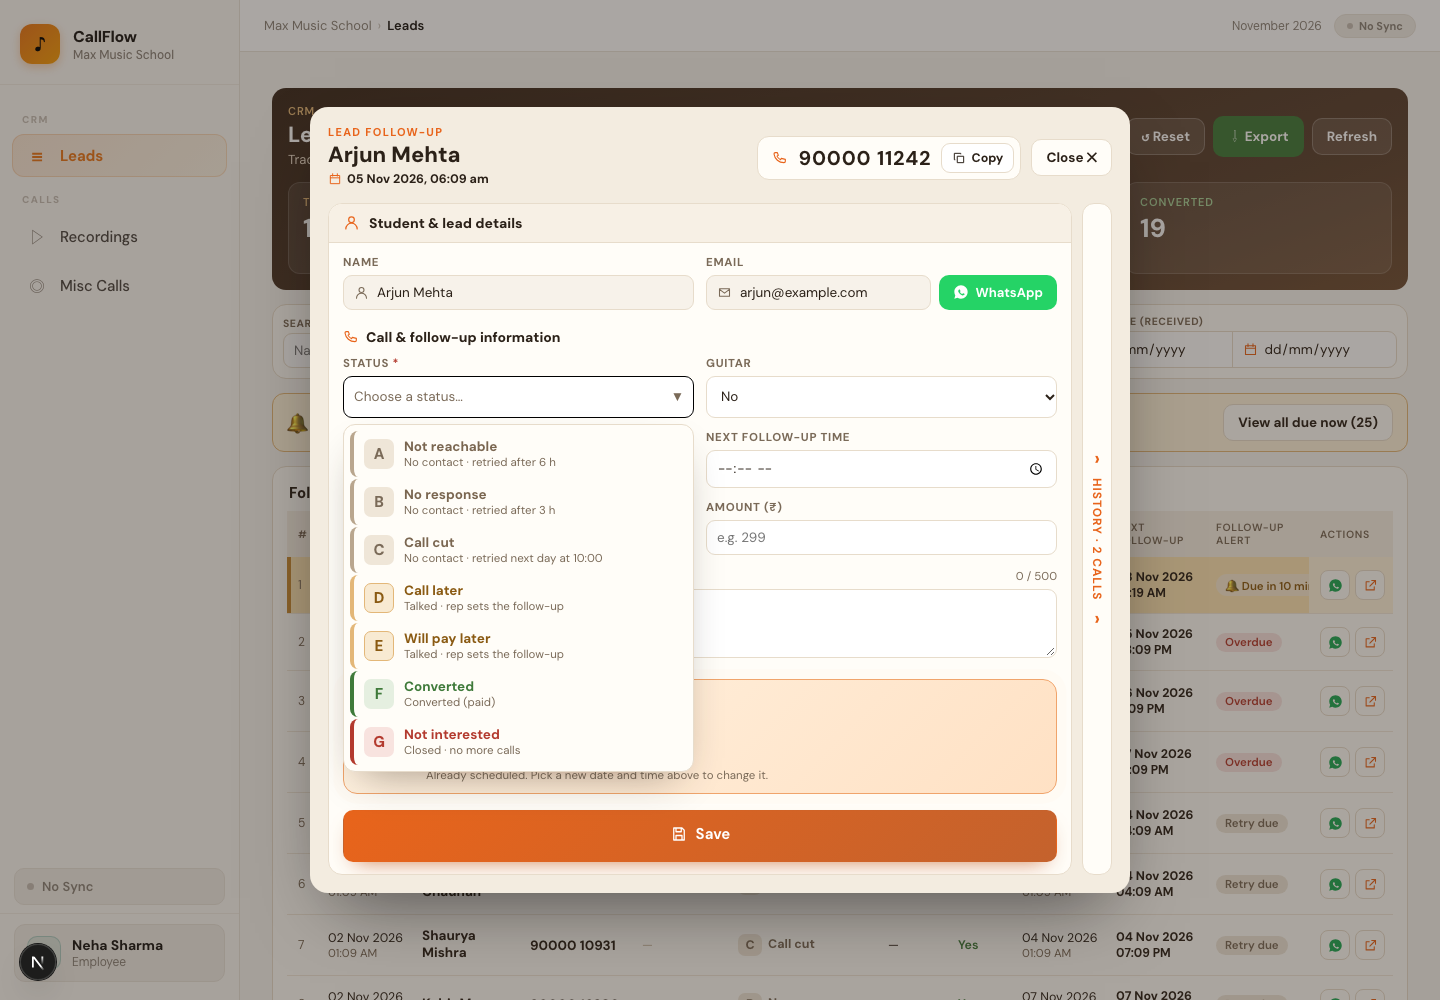
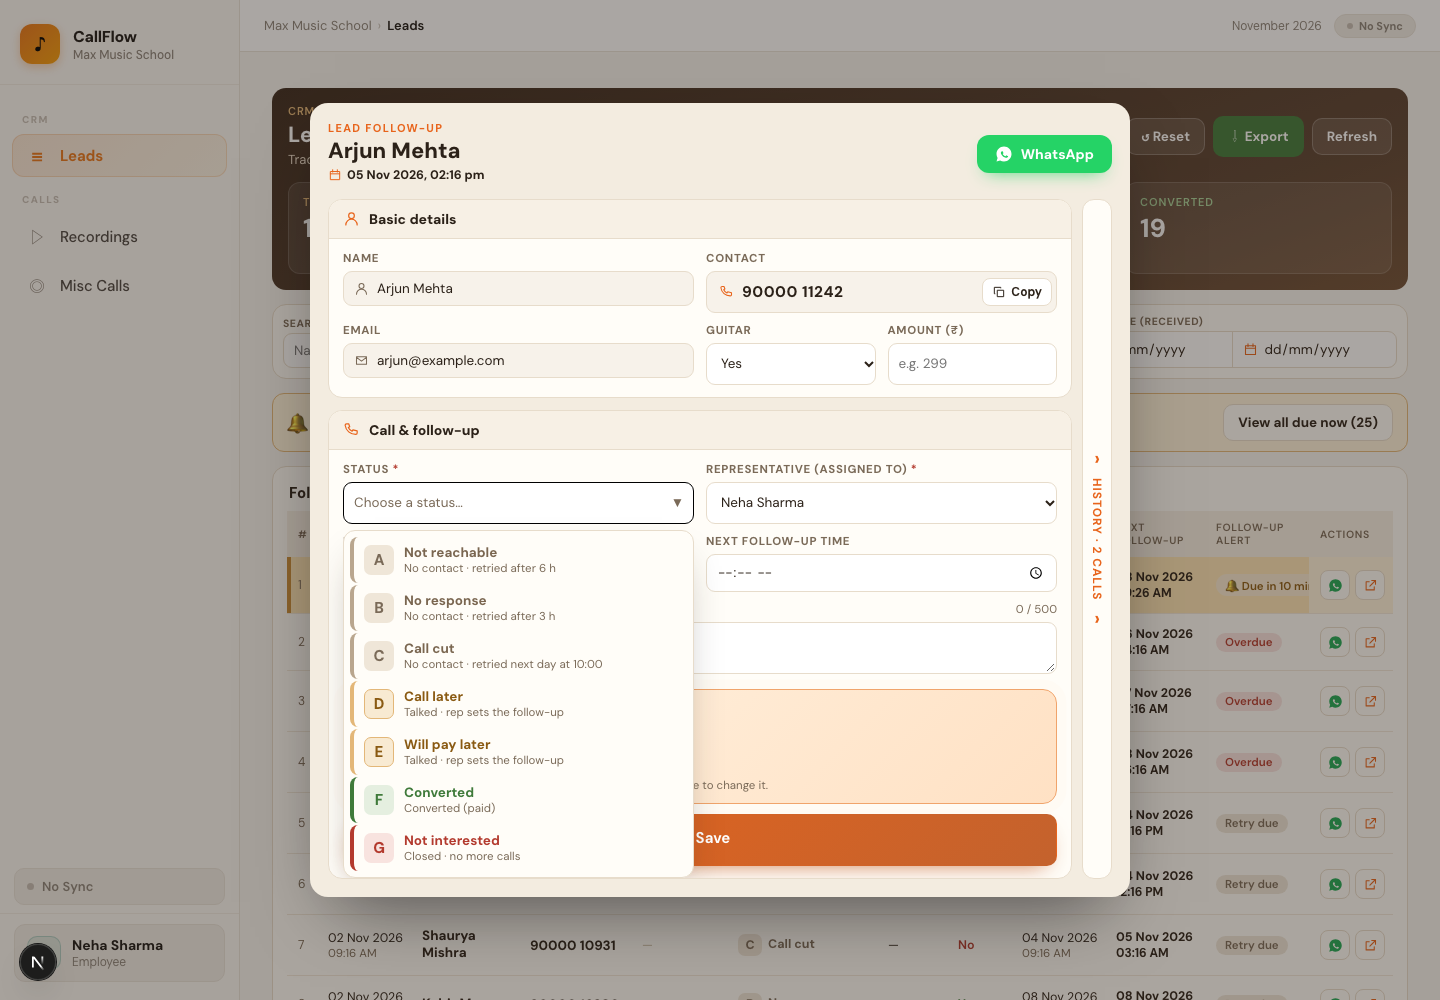
CRM lead form: client layout (Basic details / Call & follow-up, WhatsApp top right, no Close)
- Basic details: Name, Contact (with Copy), Email, Guitar, Amount.
- Call & follow-up: Status, Representative, next follow-up date/time, notes, reminder, Save.
- The number box leaves the top corner; WhatsApp takes the top right.
- No Close button: a click on the empty area around the pop-up, or Esc, closes it.
- Tighter spacing so the whole form fits on one screen.

diff --git a/apps/web/components/crm/LeadDrawer.tsx b/apps/web/components/crm/LeadDrawer.tsx
@@ -113,10 +113,12 @@ function DrawerBody({ leadId, onClose, onSaved, isOwner, expanded, onExpand }: {
             <Icon name="calendar" size={14} style={{ color: R.out }} /><b style={{ color: R.ink }} title="Lead received">{received(d.lead.created_at)}</b>
           </div>
         </div>
-        <span style={{ marginLeft: "auto", display: "flex", gap: 10, alignItems: "center" }}>
-          <NumberBox phone10={d.lead.phone10} />
-          <Btn kind="ghost" onClick={onClose}>Close ✕</Btn>
-        </span>
+        {/* Client, 8 Nov: WhatsApp top right; the number lives in Basic details; no Close button
+            (a click on the empty area around the pop-up, or Esc, closes it) */}
+        <a href={`https://wa.me/91${d.lead.phone10}`} target="_blank" rel="noopener noreferrer" className="crm-btn" title="Chat on WhatsApp"
+          style={{ marginLeft: "auto", display: "inline-flex", gap: 8, alignItems: "center", background: "#25D366", color: "#fff", borderRadius: 12,
+            padding: "10px 18px", fontWeight: 800, fontSize: 14, textDecoration: "none", boxShadow: "0 8px 18px -10px rgba(37,211,102,.9)" }}>
+          <WhatsAppIcon size={18} />WhatsApp</a>
       </header>
       {readOnly && (
         <div role="status" style={{ display: "flex", gap: 10, alignItems: "center", background: "#fff1d6", border: `1px solid ${R.gold}`, borderRadius: 12, padding: "10px 14px", fontSize: 13.5, fontWeight: 600 }}>
@@ -147,31 +149,22 @@ function DrawerBody({ leadId, onClose, onSaved, isOwner, expanded, onExpand }: {
   );
 }
 
-/** The number in big type for dialling on KoreCall, with a copy button. */
-function NumberBox({ phone10 }: { phone10: string }) {
+/** Contact field: the number in bold for dialling on KoreCall, with a copy button. */
+function ContactField({ phone10 }: { phone10: string }) {
   const [copied, setCopied] = useState(false);
   const copy = async () => {
     try { await navigator.clipboard.writeText(phone10); setCopied(true); setTimeout(() => setCopied(false), 1500); } catch { /* clipboard blocked */ }
   };
   return (
-    <div style={{ display: "flex", gap: 10, alignItems: "center", background: R.card, border: `1px solid ${R.line}`, borderRadius: 12, padding: "6px 6px 6px 14px" }}>
-      <Icon name="phone" size={16} style={{ color: R.out }} />
-      <b style={{ fontSize: 20, letterSpacing: ".04em", fontVariantNumeric: "tabular-nums" }} aria-label={`Phone ${phone10.split("").join(" ")}`}>{groupPhone(phone10)}</b>
+    <div style={{ ...inputStyle, background: "#f7f2ea", display: "flex", gap: 8, alignItems: "center", padding: "4px 4px 4px 12px", minHeight: 42 }}>
+      <Icon name="phone" size={15} style={{ color: R.out }} />
+      <b style={{ fontSize: 15.5, letterSpacing: ".03em", fontVariantNumeric: "tabular-nums", flex: 1 }} aria-label={`Phone ${phone10.split("").join(" ")}`}>{groupPhone(phone10)}</b>
       <button type="button" className="crm-btn" onClick={copy} title="Copy number" aria-label="Copy number"
         style={{ display: "inline-flex", gap: 5, alignItems: "center", border: `1px solid ${copied ? R.good : R.line}`, background: copied ? "#e5efe0" : "#fff",
-          color: copied ? R.good : R.ink, borderRadius: 9, padding: "6px 10px", fontSize: 12.5, fontWeight: 700, cursor: "pointer", fontFamily: "inherit" }}>
+          color: copied ? R.good : R.ink, borderRadius: 8, padding: "5px 9px", fontSize: 12, fontWeight: 700, cursor: "pointer", fontFamily: "inherit" }}>
         <Icon name={copied ? "check" : "copy"} size={14} />{copied ? "Copied" : "Copy"}
       </button>
       <span role="status" style={{ position: "absolute", width: 1, height: 1, overflow: "hidden", clip: "rect(0 0 0 0)" }}>{copied ? "Number copied" : ""}</span>
-    </div>
-  );
-}
-
-function SectionLabel({ icon, children }: { icon: Parameters<typeof Icon>[0]["name"]; children: ReactNode }) {
-  return (
-    <div style={{ display: "flex", alignItems: "center", gap: 7, margin: "2px 0 10px" }}>
-      <Icon name={icon} size={16} style={{ color: R.out }} />
-      <span style={{ fontSize: 14, fontWeight: 800, color: R.ink }}>{children}</span>
     </div>
   );
 }
@@ -351,62 +344,58 @@ function LeadForm({ d, cfg, readOnly, onSaved, onReload }: { d: LeadDetail; cfg:
   const lbl = (text: string, required: boolean) => <span style={labelStyle}>{text}{star(required)}</span>;
   const box = { ...inputStyle, background: "#f7f2ea", display: "flex", gap: 8, alignItems: "center" } as const;
   return (
-    <Card icon="user" title="Student & lead details">
-      <fieldset disabled={readOnly} style={{ border: 0, margin: 0, padding: 0, display: "grid", gap: 16, minWidth: 0 }}>
-        <div className="lf-2" style={{ alignItems: "end" }}>
-          <div>{lbl("Name", false)}<div style={box}><Icon name="user" size={15} style={{ color: R.mute }} />{l.name || "—"}</div></div>
-          <div>
-            {lbl("Email", false)}
-            {/* From the lead sheet's email column; the number is already in the box at the top */}
-            <div style={{ display: "flex", gap: 8 }}>
-              <div style={{ ...box, flex: 1, minWidth: 0 }} title={l.email ?? undefined}>
+    <fieldset disabled={readOnly} style={{ border: 0, margin: 0, padding: 0, display: "grid", gap: 12, minWidth: 0 }}>
+      {/* Client, 8 Nov: segments, everything important in one area of the screen */}
+      <Card icon="user" title="Basic details">
+        <div style={{ display: "grid", gap: 10 }}>
+          <div className="lf-2">
+            <div>{lbl("Name", false)}<div style={box}><Icon name="user" size={15} style={{ color: R.mute }} />{l.name || "—"}</div></div>
+            <div>{lbl("Contact", false)}<ContactField phone10={l.phone10} /></div>
+          </div>
+          <div className="lf-2">
+            <div>{lbl("Email", false)}
+              <div style={box} title={l.email ?? undefined}>
                 <Icon name="mail" size={15} style={{ color: R.mute }} />
                 {l.email ? <span style={{ overflow: "hidden", textOverflow: "ellipsis", whiteSpace: "nowrap" }}>{l.email}</span>
                   : <span style={{ color: "#a8977f" }}>Not in the sheet</span>}
               </div>
-              <a href={`https://wa.me/91${l.phone10}`} target="_blank" rel="noopener noreferrer" className="crm-btn" title="Chat on WhatsApp"
-                style={{ display: "inline-flex", gap: 6, alignItems: "center", background: "#25D366", color: "#fff", borderRadius: 10, padding: "0 14px", fontWeight: 700, fontSize: 13, textDecoration: "none" }}>
-                <WhatsAppIcon size={16} />WhatsApp</a>
             </div>
-          </div>
-        </div>
-
-        <div>
-          <SectionLabel icon="phone">Call & follow-up information</SectionLabel>
-          <div style={{ display: "grid", gap: 12 }}>
             <div className="lf-2">
-              <div>{lbl("Status", true)}<StatusPicker value={code} onChange={pickStatus} /></div>
               <label>{lbl("Guitar", talked)}
                 <select value={guitar} onChange={(e) => setGuitar(e.target.value)} style={{ ...inputStyle, minHeight: 42 }} aria-label="Guitar">
                   <option value="">—</option><option>Yes</option><option>No</option>
                 </select></label>
-            </div>
-            <div className="lf-2">
-              <label>{lbl("Next follow-up date", kind === "callback")}
-                <input type="date" value={date} min={istToday()} disabled={dateOff} onChange={(e) => setDate(e.target.value)} aria-label="Next follow-up date"
-                  style={{ ...inputStyle, opacity: dateOff ? 0.5 : 1 }} /></label>
-              <label>{lbl("Next follow-up time", kind === "callback")}
-                <input type="time" value={time} disabled={dateOff} onChange={(e) => setTime(e.target.value)} aria-label="Next follow-up time"
-                  style={{ ...inputStyle, opacity: dateOff ? 0.5 : 1 }} /></label>
-            </div>
-            {kind === "retry" && !drops && <div style={{ fontSize: 12, color: R.mute, marginTop: -6 }}>Filled automatically from the follow-up rules in CRM Settings. Change it if needed.</div>}
-            <div className="lf-2">
-              <label>{lbl("Representative (assigned to)", true)}
-                <select value={repId} onChange={(e) => setRepId(e.target.value)} style={inputStyle} aria-label="Representative">
-                  <option value="">Choose…</option>
-                  {cfg.reps.map((r) => <option key={r.id} value={r.id}>{r.name}</option>)}
-                </select></label>
               <label>{lbl("Amount (₹)", false)}
-                <input type="number" min={0} placeholder="e.g. 299" value={amount} onChange={(e) => setAmount(e.target.value)} style={inputStyle} /></label>
+                <input type="number" min={0} placeholder="e.g. 299" value={amount} onChange={(e) => setAmount(e.target.value)} style={{ ...inputStyle, minHeight: 42 }} /></label>
             </div>
-            <label>
-              <span style={{ ...labelStyle, display: "flex" }}>Notes / conversation summary{star(needsNote)}
-                <span style={{ marginLeft: "auto", textTransform: "none", letterSpacing: 0, fontWeight: 400 }}>{note.length} / {NOTE_MAX}</span></span>
-              <textarea value={note} maxLength={NOTE_MAX} onChange={(e) => setNote(e.target.value)} rows={3} placeholder="What did the student say?" style={{ ...inputStyle, resize: "vertical" }} />
-            </label>
           </div>
         </div>
+      </Card>
 
+      <Card icon="phone" title="Call & follow-up">
+        <div style={{ display: "grid", gap: 10 }}>
+          <div className="lf-2">
+            <div>{lbl("Status", true)}<StatusPicker value={code} onChange={pickStatus} /></div>
+            <label>{lbl("Representative (assigned to)", true)}
+              <select value={repId} onChange={(e) => setRepId(e.target.value)} style={{ ...inputStyle, minHeight: 42 }} aria-label="Representative">
+                <option value="">Choose…</option>
+                {cfg.reps.map((r) => <option key={r.id} value={r.id}>{r.name}</option>)}
+              </select></label>
+          </div>
+          <div className="lf-2">
+            <label>{lbl("Next follow-up date", kind === "callback")}
+              <input type="date" value={date} min={istToday()} disabled={dateOff} onChange={(e) => setDate(e.target.value)} aria-label="Next follow-up date"
+                style={{ ...inputStyle, opacity: dateOff ? 0.5 : 1 }} /></label>
+            <label>{lbl("Next follow-up time", kind === "callback")}
+              <input type="time" value={time} disabled={dateOff} onChange={(e) => setTime(e.target.value)} aria-label="Next follow-up time"
+                style={{ ...inputStyle, opacity: dateOff ? 0.5 : 1 }} /></label>
+          </div>
+          {kind === "retry" && !drops && <div style={{ fontSize: 12, color: R.mute, marginTop: -4 }}>Filled automatically from the follow-up rules in CRM Settings. Change it if needed.</div>}
+          <label>
+            <span style={{ ...labelStyle, display: "flex" }}>Notes / conversation summary{star(needsNote)}
+              <span style={{ marginLeft: "auto", textTransform: "none", letterSpacing: 0, fontWeight: 400 }}>{note.length} / {NOTE_MAX}</span></span>
+            <textarea value={note} maxLength={NOTE_MAX} onChange={(e) => setNote(e.target.value)} rows={2} placeholder="What did the student say?" style={{ ...inputStyle, resize: "vertical" }} />
+          </label>
         <Reminder at={reminder.at} repName={repName} note={reminder.note} live={reminder.live} />
         {err && (
           <div role="alert" style={{ color: R.bad, fontSize: 13, fontWeight: 600, display: "flex", gap: 10, alignItems: "center" }}>
@@ -417,7 +406,8 @@ function LeadForm({ d, cfg, readOnly, onSaved, onReload }: { d: LeadDetail; cfg:
           style={{ padding: "13px 22px", fontSize: 15, background: `linear-gradient(135deg,${R.out},#c4622d)`, boxShadow: "0 10px 22px -12px rgba(196,98,45,.9)", width: "100%" }}>
           <span style={{ display: "inline-flex", gap: 8, alignItems: "center" }}><Icon name="save" size={18} />{saving ? "Saving…" : "Save"}</span>
         </Btn>
-      </fieldset>
-    </Card>
+        </div>
+      </Card>
+    </fieldset>
   );
 }

diff --git a/docs/crm-prototype/README.md b/docs/crm-prototype/README.md
@@ -5,9 +5,10 @@ request (7 Nov 2026, "keep it simple") to two pages:
 
 - **Leads**: four tiles (total, new, follow-ups due today, converted), filters, a "due now" banner,
   and three lists: *Follow-up due now* (blinks 15 min before a callback), *Upcoming today*, *All leads*.
-- **Lead form** (pop-up): number with Copy, name, email from the sheet, WhatsApp link, Status (the client's
-  codes in a coloured dropdown), Guitar, next follow-up date/time, representative, amount, notes,
-  a reminder banner, Save. A side handle opens the follow-up snapshot and the call log with recordings.
+- **Lead form** (pop-up, client layout of 8 Nov): WhatsApp button top right; **Basic details**
+  (Name, Contact with Copy, Email, Guitar, Amount); **Call & follow-up** (Status in a coloured dropdown,
+  Representative, next follow-up date/time, notes, reminder banner, Save). No Close button: a click on the
+  empty area around it, or Esc, closes it. A side handle opens the follow-up snapshot and the call log.
 - **CRM Settings** (owner): **Statuses** (the sheet's letter codes: name and role of each, + Add status, follow-up wait,
   drop limit) and **who can use the CRM**: per employee, Leads tab / CRM Settings tab / Export leads,
   also set in Team → Edit. The owner has everything; only the owner hands out access.
